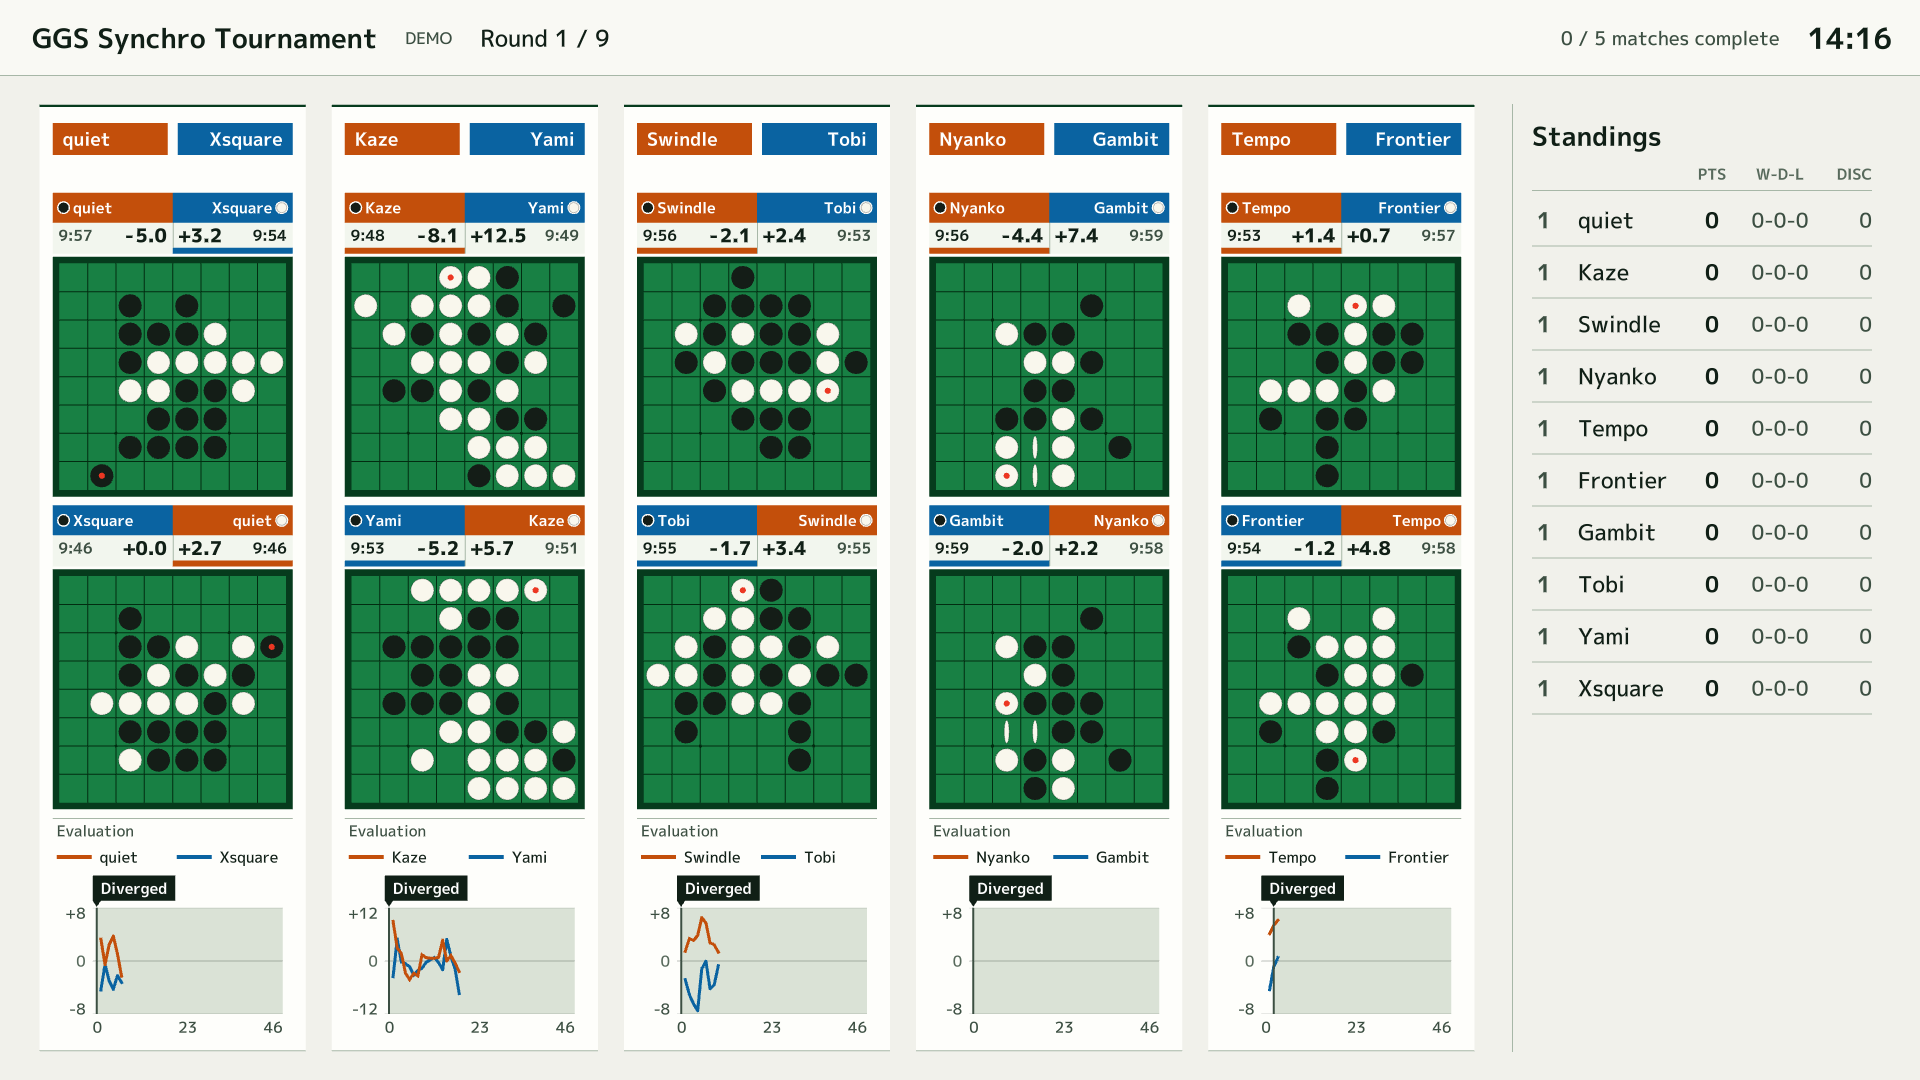
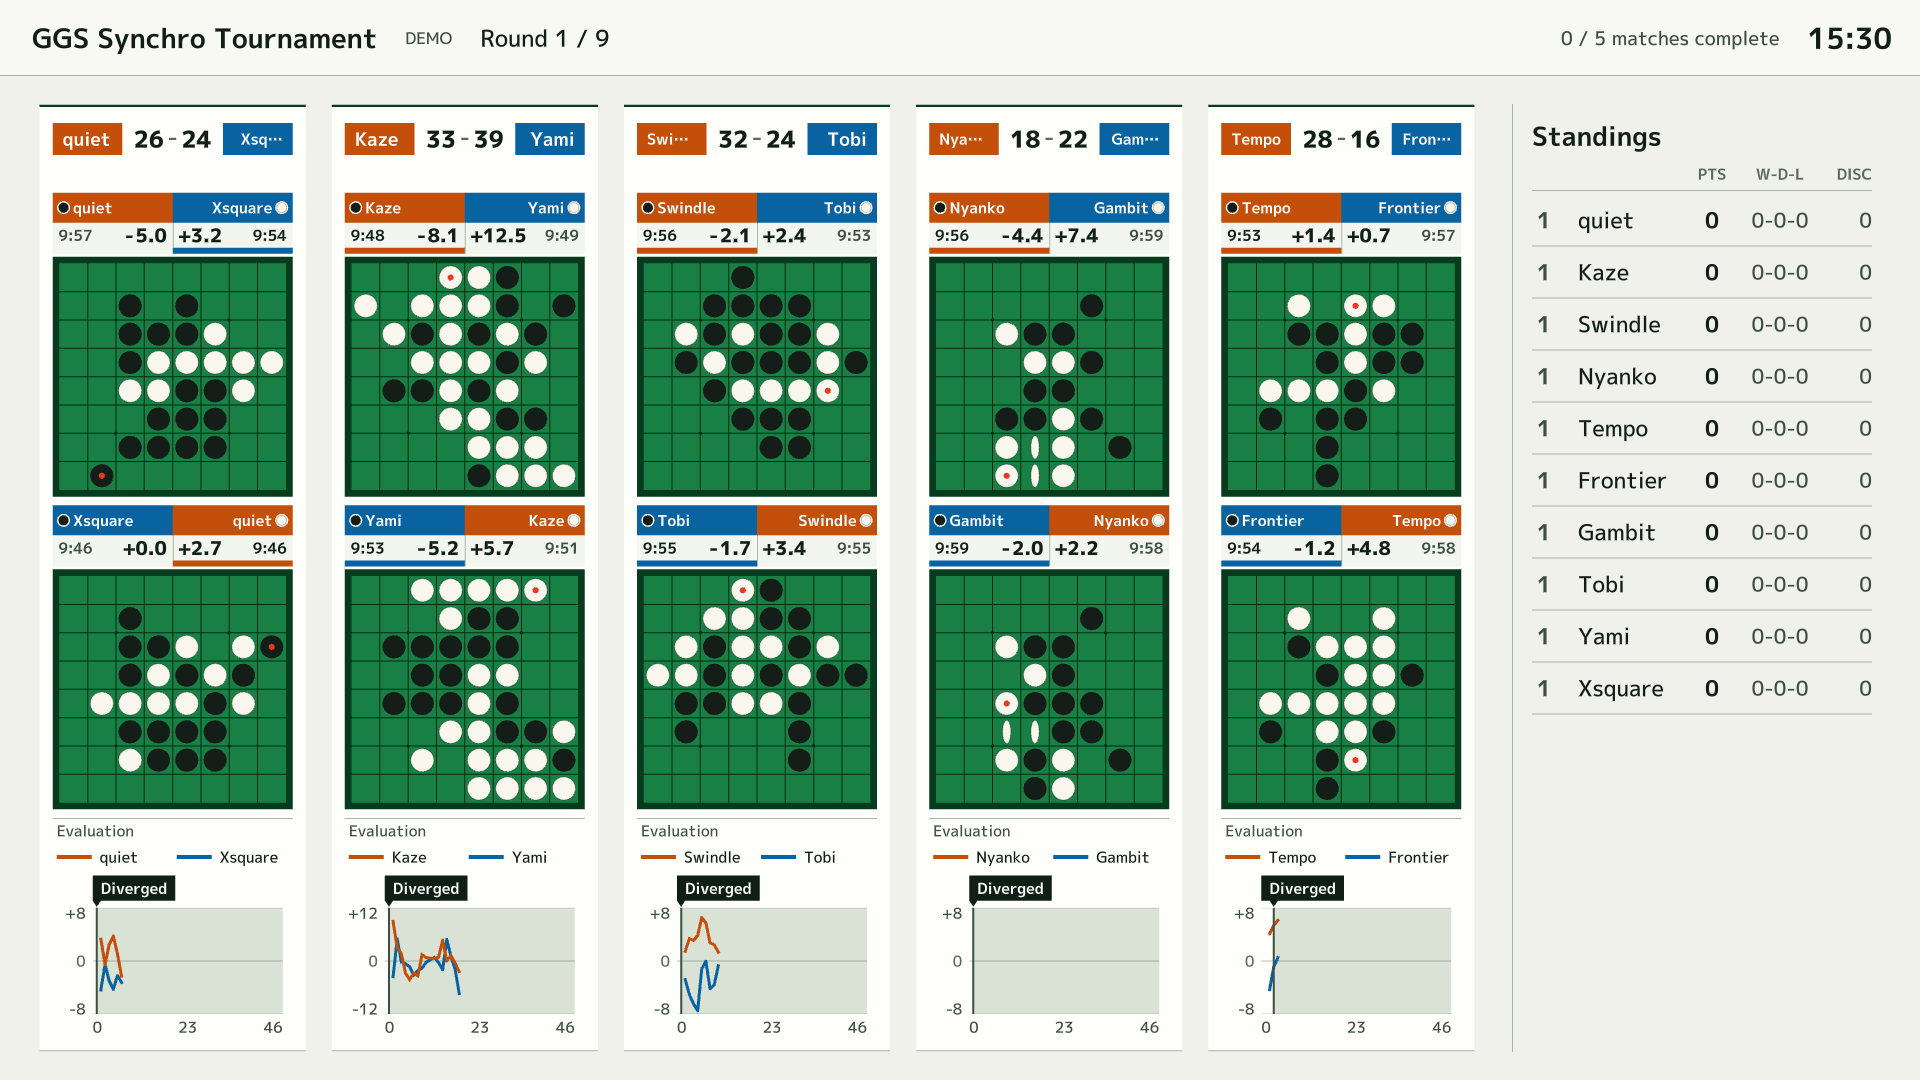
Restore live aggregate disc counts in match headers

diff --git a/stream_view.hpp b/stream_view.hpp
@@ -616,7 +616,7 @@ private:
         double half_score = Max(sa.size(), sb.size()) * digit_ratio_heavy * score_size + 14 * s;
         double result = 0;
         bool has_result = m.result_sum(result);
-        double name_w = has_result ? r.w / 2 - half_score - Max(10.0, 10 * s) : (r.w - Max(10.0, 10 * s)) / 2;
+        double name_w = r.w / 2 - half_score - Max(10.0, 10 * s);
         for (int i = 0; i < 2; ++i) {
             bool left = i == 0;
             double edge = left ? r.x : r.rightX();
@@ -634,10 +634,10 @@ private:
             }
         }
         double cx = r.centerX();
+        mono(heavy, digit_ratio_heavy, sa, score_size, Align::Right, Vec2{ cx - 12 * s, y1 }, col::text);
+        RectF{ cx - 5 * s, y1 - 1.5 * s, 10 * s, 3 * s }.draw(col::faint);
+        mono(heavy, digit_ratio_heavy, sb, score_size, Align::Left, Vec2{ cx + 12 * s, y1 }, col::text);
         if (has_result) {
-            mono(heavy, digit_ratio_heavy, sa, score_size, Align::Right, Vec2{ cx - 12 * s, y1 }, col::text);
-            RectF{ cx - 5 * s, y1 - 1.5 * s, 10 * s, 3 * s }.draw(col::faint);
-            mono(heavy, digit_ratio_heavy, sb, score_size, Align::Left, Vec2{ cx + 12 * s, y1 }, col::text);
             text(medium, U"final " + format_signed(result), fs(16 * s), Align::Center, Vec2{ cx, y2 }, col::sub);
         } else if (!m.joined()) {
             text(bold, U"connecting", fs(16 * s), Align::Center, Vec2{ cx, y2 }, col::faint);

diff --git a/README.md b/README.md
@@ -69,7 +69,7 @@ foo123    山田（チームA）
 ## 画面の見方
 
 - 参加人数（偶数）に応じて、1 ラウンドの組数分のカードを自動で並べます。盤が最も大きくなるレイアウト（縦・横、プレイヤー情報を盤の横に置くか上に置くか）を自動で選びます。盤が大きいときは座標（a〜h, 1〜8）も表示します。
-- カード上部: 2 人の名前。左の選手はオレンジ、右の選手は青の名前帯で示し、各盤の名前帯とグラフにも同じ色を使います。組の 2 局が終わると、最終石数の合計・勝敗・合計石差を表示します。
+- カード上部: 2 人の名前と、各選手の現在の石数（2 局合計）を表示します。左の選手はオレンジ、右の選手は青の名前帯で示し、各盤の名前帯とグラフにも同じ色を使います。組の 2 局が終わると、最終石数の合計・勝敗・合計石差を表示します。
 - 各盤: 黒番・白番の名前、各エンジン自身の視点での評価値、持ち時間（手番側のみ減っていきます）。評価値は符号付きで小数第 1 位まで表示し、未取得なら `—` を表示します。リプレイ中はその手数までに届いた最新の評価値を表示します。最後に打った石の中央には小さな赤い丸を表示します。手番は選手の色の太いバーで示します。横の情報欄では盤に接する辺、上の情報欄では下辺に表示します。終局時は各局のスコア（石差）も表示します。勝敗は組の 2 局の合計で決まるので、各局には勝ち負けを表示せず、カード上部にだけ表示します。
 - 評価値グラフ: 各プレイヤーが 2 局で送ってきた評価値の合計です。横軸は手数で、凡例には評価値を送った選手名を表示します。0 より上は左のプレイヤー優勢、下は右のプレイヤー優勢です。オレンジ線が左のプレイヤー自身の見積もり、青線が右のプレイヤーの見積もり（左視点に反転）です。どちらも実線で表示します。
   - パスした手と、合法手が 1 つしかない局面での手の評価値は使わず、直前の値を引き継ぎます。
